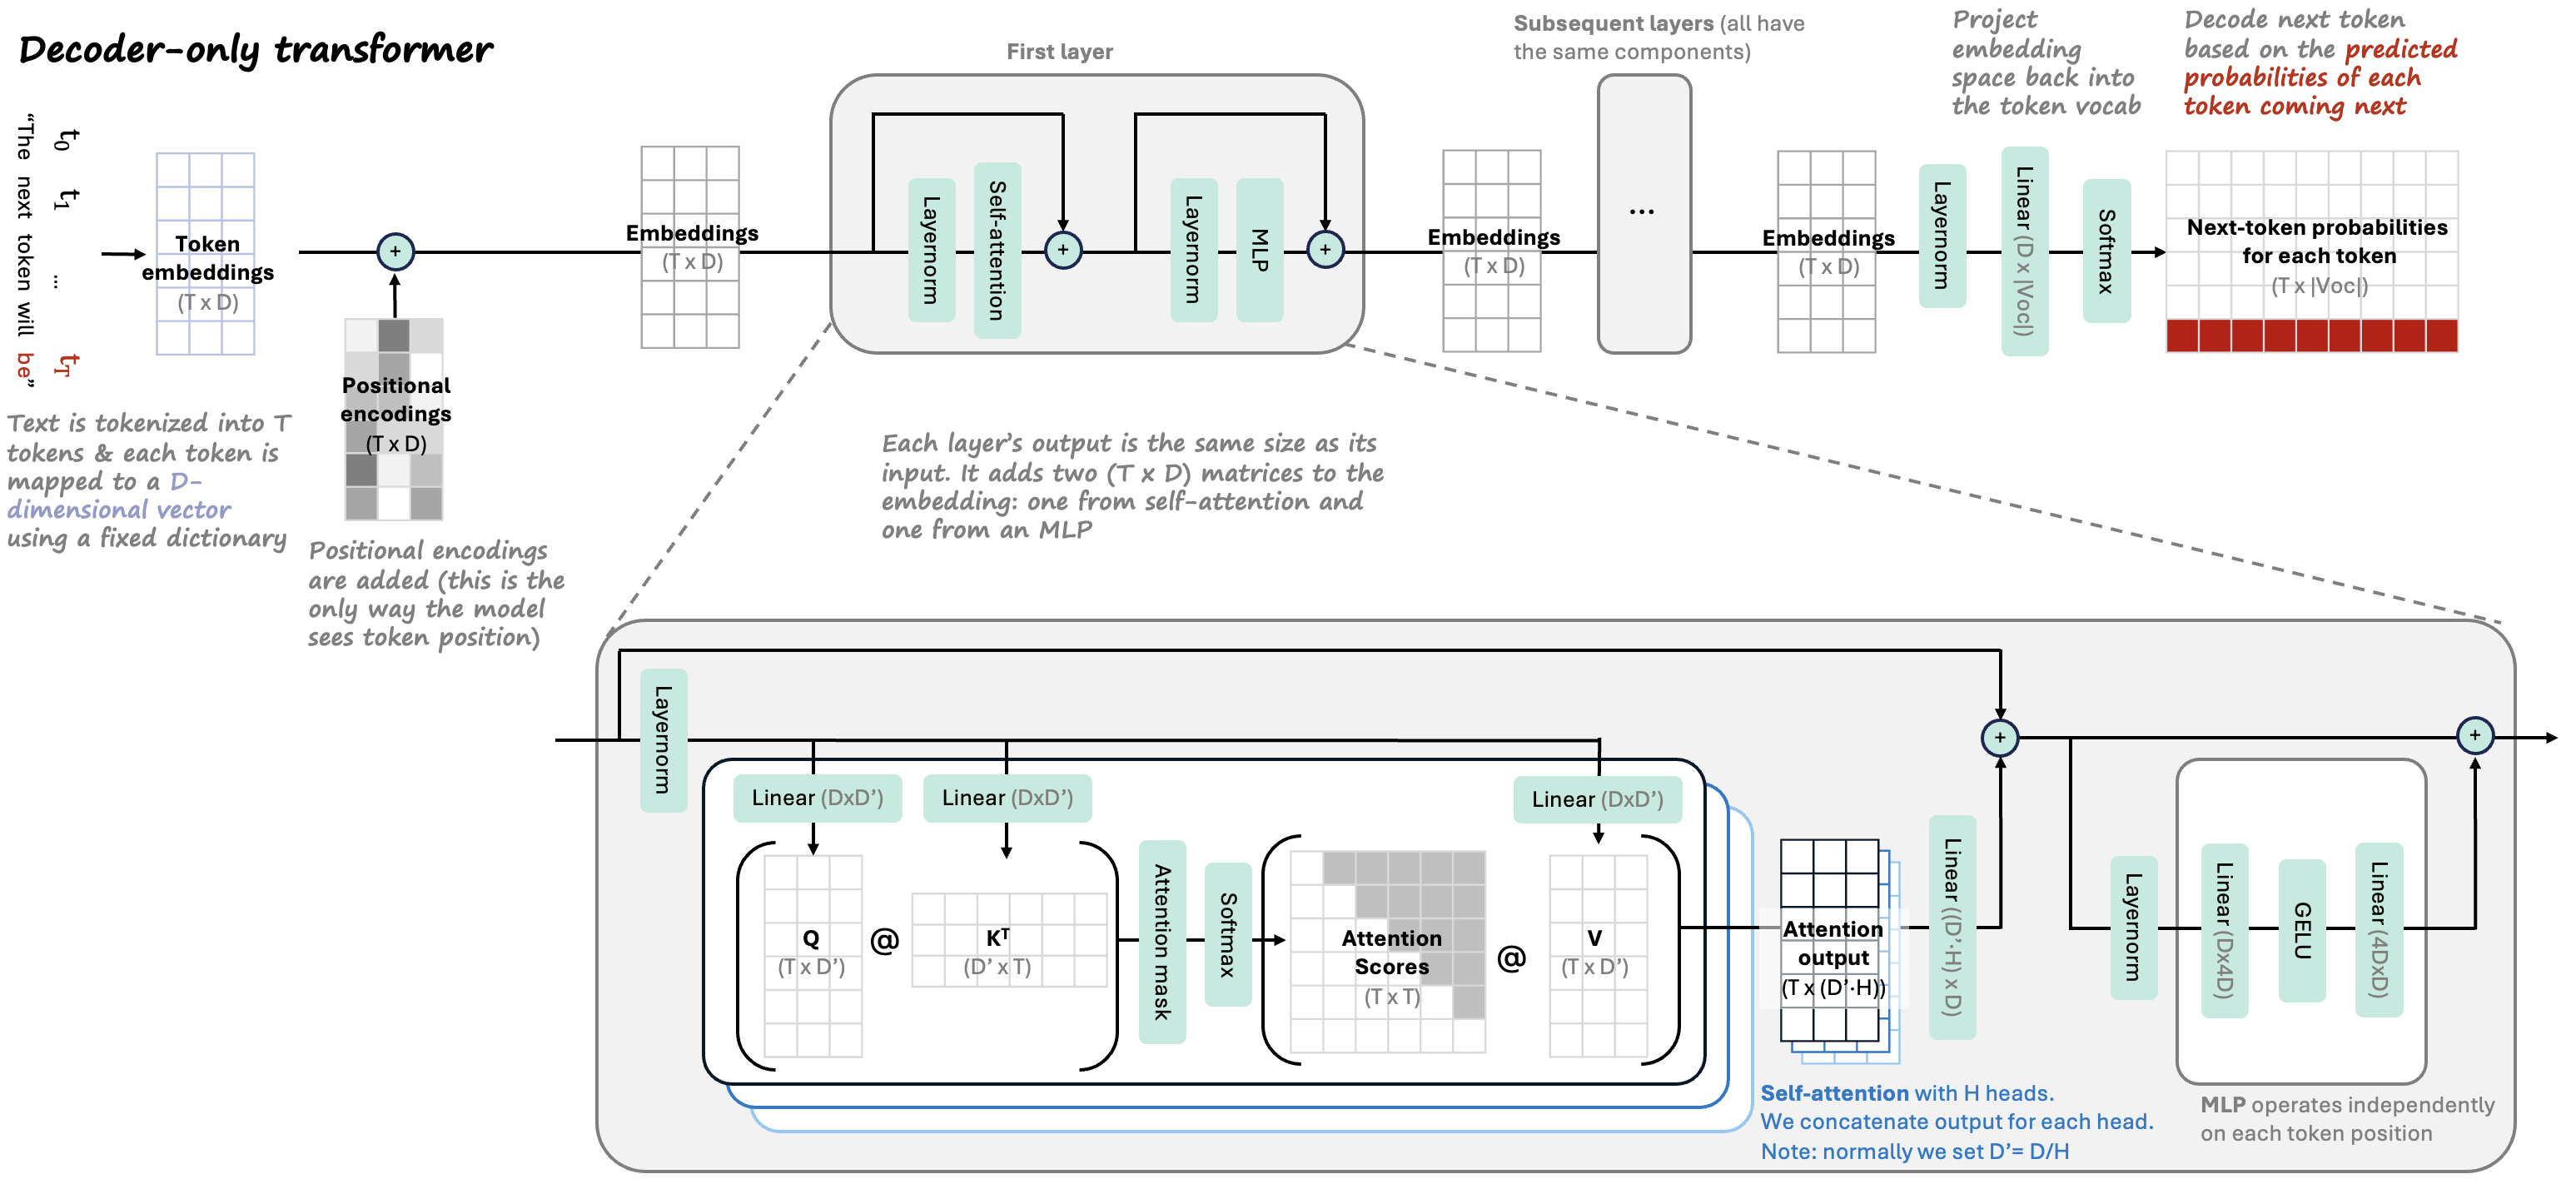
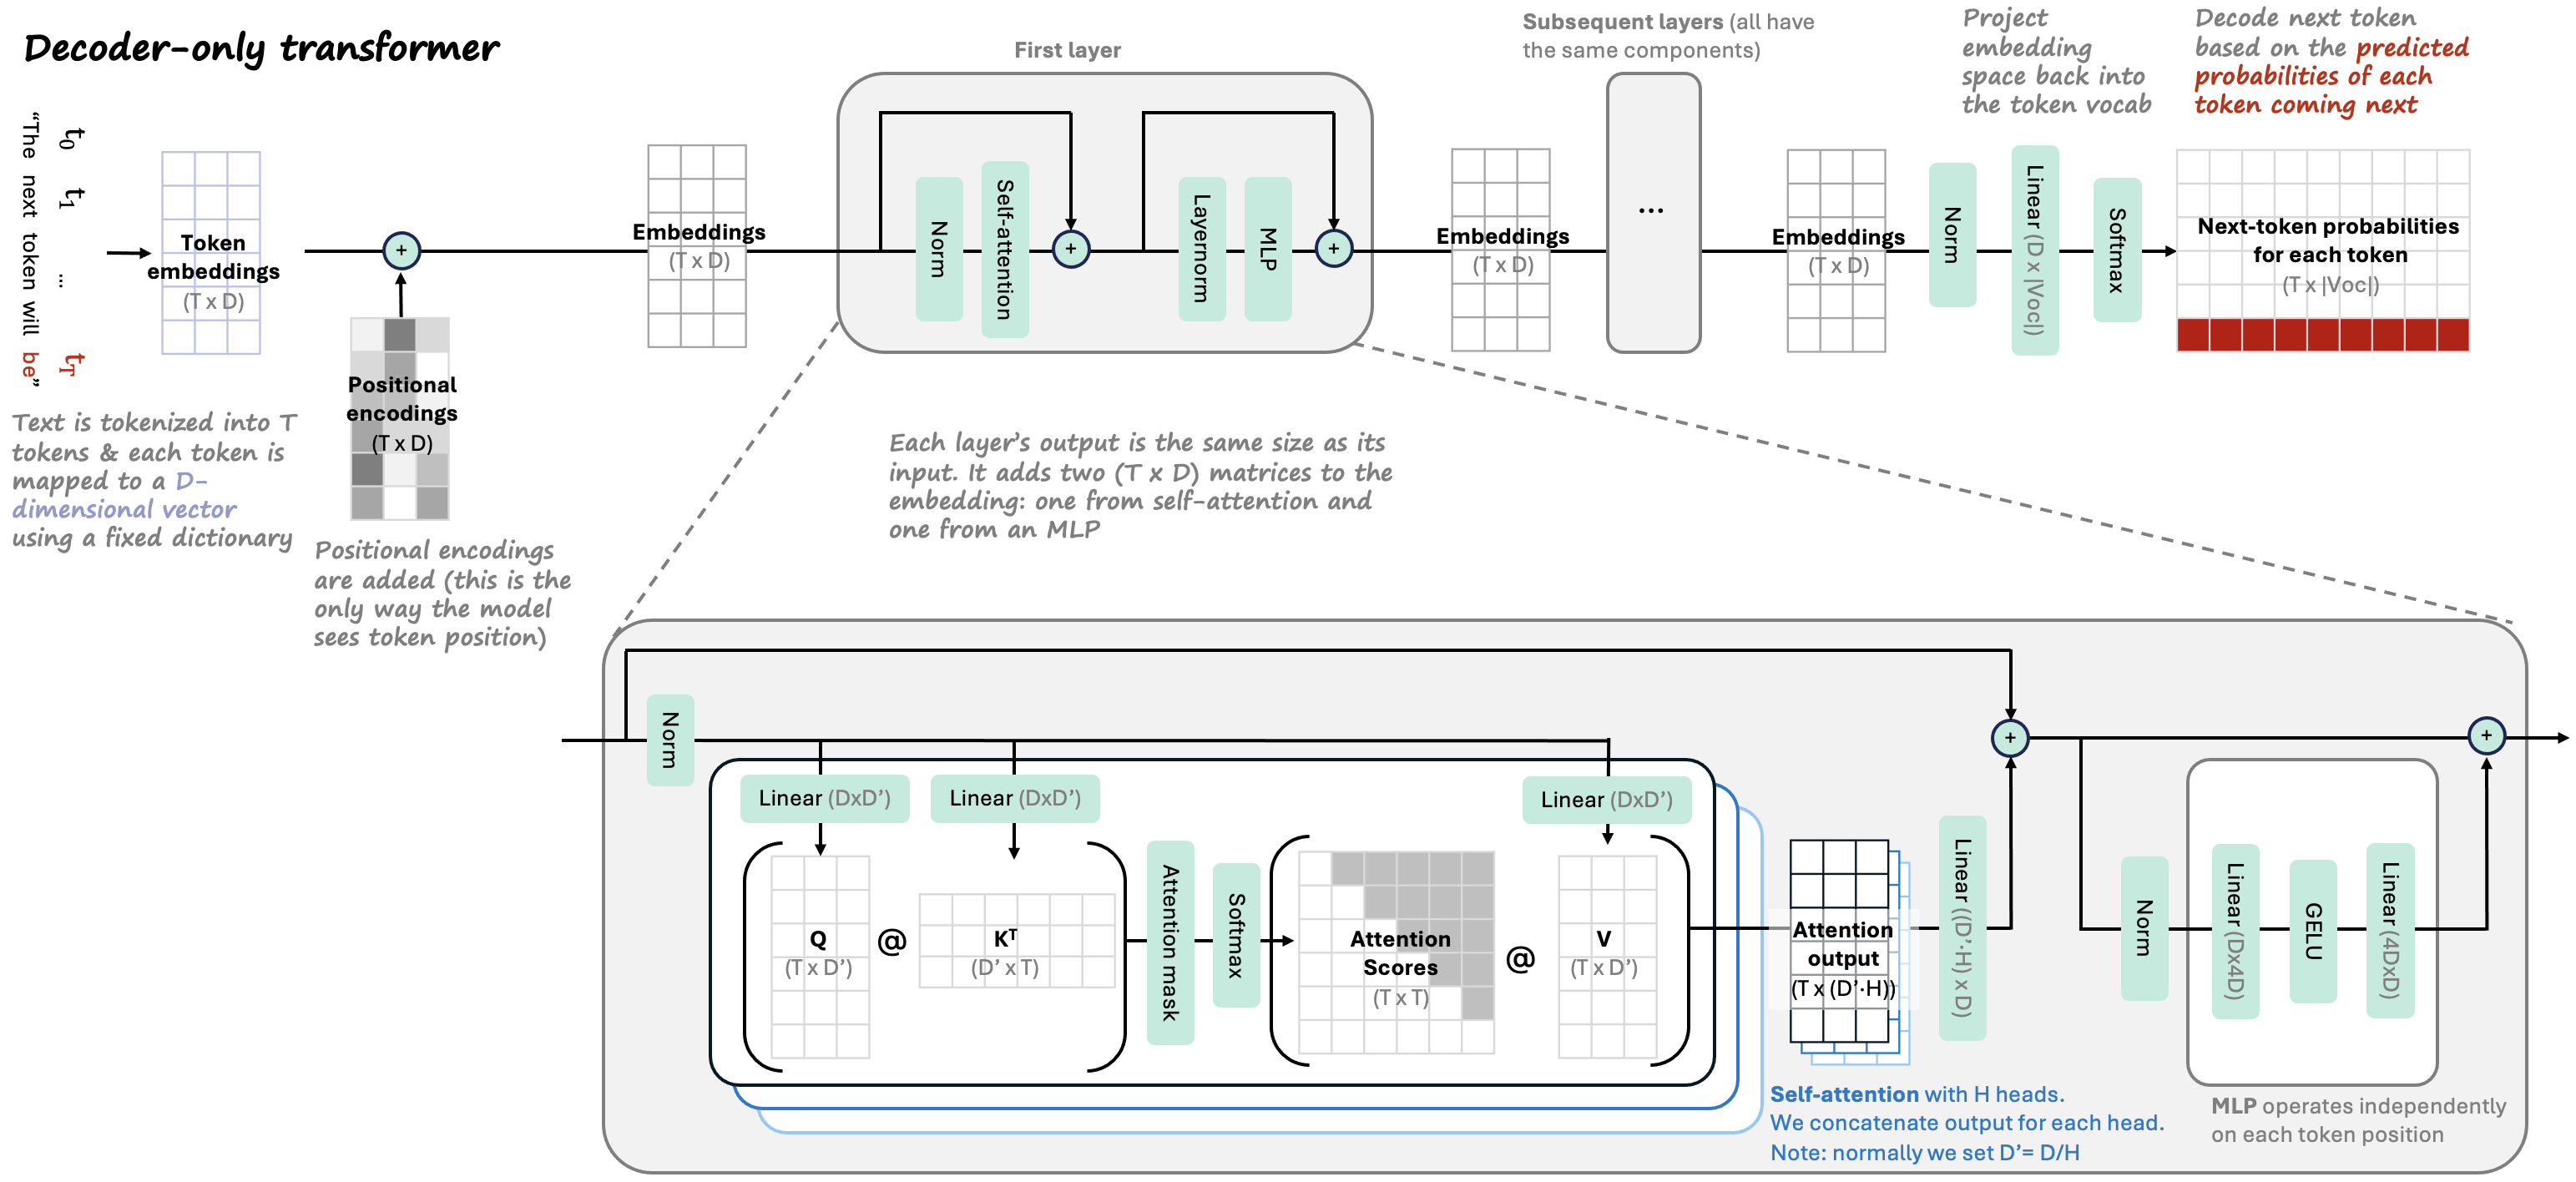
notes updates

diff --git a/_notes/research_ovws/ovw_llms.md b/_notes/research_ovws/ovw_llms.md
@@ -599,9 +599,9 @@ Nice survey here: A Survey on dLLMs ([li, chen, guo & shen, 2025](https://arxiv.
   - Parallel-R1: Towards Parallel Thinking via RL ([zheng...yu, 2025](https://arxiv.org/abs/2509.07980))
 - aggregating information across examples
   - RLAD: Training LLMs to Discover Abstractions for Solving Reasoning Problems ([qu...kumar, 2025](https://arxiv.org/abs/2510.02263)) - use NL abstractions to guide more general reasoning paths
-    - SkillRL: Evolving Agents via Recursive Skill-Augmented RL ([xia...yao, 2026](https://arxiv.org/abs/2602.08234))
     - Hybrid-Gym: Training Coding Agents to Generalize Across Tasks ([xie...fried, 2026](https://arxiv.org/abs/2602.16819))
       - Inducing Programmatic Skills for Agentic Tasks ([wang, gandhi, neubig & fried, 2025](https://arxiv.org/abs/2504.06821))
+    - Memento-Skills: Let Agents Design Agents ([zhou...wang, 2026](https://arxiv.org/abs/2603.18743))
   - Metacognitive Reuse: Turning Recurring LLM Reasoning Into Concise Behaviors ([didolkar, ballas, arora & goyal, 2025](https://arxiv.org/abs/2509.13237))
   - WALT: Web Agents that Learn Tools ([prabhu...xu, 2025](https://arxiv.org/abs/2510.01524))
     - ReUseIt: Synthesizing Reusable AI Agent Workflows for Web Automation ([liu, sra, inala & wang, 2025](https://arxiv.org/abs/2510.14308))
@@ -616,12 +616,14 @@ Nice survey here: A Survey on dLLMs ([li, chen, guo & shen, 2025](https://arxiv.
     - Memento-Skills: Let Agents Design Agents ([zhou...wang, 2026](https://arxiv.org/abs/2603.18743))
     - autoresearch-skill ([tweet](https://x.com/itsolelehmann/status/2033919415771713715?s=20); [github](https://github.com/olelehmann100kMRR/autoresearch-skill))
     - SKILLFOUNDRY: Building Self-Evolving Agent Skill Libraries from Heterogeneous Scientific Resources ([shen...ma, 2026](https://arxiv.org/abs/2604.03964))
+    - LLMs Improving LLMs: Agentic Discovery for Test-Time Scaling ([zheng...huang, 2026](https://arxiv.org/abs/2605.08083))
   - Tool-R0: Self-Evolving LLM Agents for Tool-Learning from Zero Data ([acikgoz...tur, 2026](https://arxiv.org/abs/2602.21320))
-    - SKILL0: In-Context Agentic RL for Skill Internalization ([lu...shen, 2026](https://arxiv.org/abs/2604.02268))
+    - AEL: Agent Evolving Learning for Open-Ended Environments ([xu...metaxas, 2026](https://arxiv.org/abs/2604.21725))
     - SkillClaw: Let Skills Evolve Collectively with Agentic Evolver ([ma...chu, 2026](https://arxiv.org/abs/2604.08377))
+    - From Skill Text to Skill Structure: The Scheduling-Structural-Logical Representation for Agent Skills ([liang, wang, liang & liu, 2026](https://arxiv.org/abs/2604.24026))
+    - Agent-World: Scaling Real-World Environment Synthesis for Evolving General Agent Intelligence ([dong...dou, 2026](https://arxiv.org/abs/2604.18292))
 - Meta-Harness: End-to-End Optimization of Model Harnesses ([lee...finn, 2026](https://arxiv.org/abs/2603.28052))
   - The Last Harness You'll Ever Build ([seong, yin, zhang & shi, 2026](https://arxiv.org/abs/2604.21003))
-
 - training to enable scaling test-time reasoning
   - ExGRPO: Learning to Reason from Experience ([zhan...cheng, 2025](https://arxiv.org/abs/2510.02245))
   - Meta-RL Induces Exploration in Language Agents ([jiang...brbic, 2025](https://arxiv.org/abs/2512.16848))
@@ -1052,16 +1054,27 @@ Editing is generally very similar to just adaptation/finetuning. One distinction
   2. weak unsupervised pre-training, e.g. weakly related text pairs, such as QA pairs from forums like StackExchange and Quora
   3. high-quality contrastive finetuning on curated paired data, e.g. QA from web searches
 - datasets
-  - **[MTEB leaderboard](https://huggingface.co/spaces/mteb/leaderboard)** & newer [RTEB](https://huggingface.co/blog/rteb)
+  - **[MTEB leaderboard](https://huggingface.co/spaces/mteb/leaderboard)** - most common (but potentially overfitted) benchmark
+    - PTEB paper ([frank & afli, 2025](https://arxiv.org/abs/2510.06730)) finds that paraphrasing MTEB test sets substantially lowers scores (suggesting overfitting)
+    - SAGE: A Realistic Benchmark for Semantic Understanding ([goel, lee & ramchandran, 2025](https://arxiv.org/abs/2509.21310)) - evaluates retreival robustness under adversarial and noisy conditions
+    - AIR-Bench: Automated Heterogeneous Information Retrieval Benchmark ([chen...liu, 2024](https://arxiv.org/abs/2412.13102)) - refreshable llm-generated eval data
+    - Older: [BEIR benchmark](https://arxiv.org/abs/2104.08663)
+  - agentic search
+    - BrowseComp-Plus ([chen...lin, 2025](https://arxiv.org/abs/2508.06600)) - evaluates deep research when searching a fixed corpus
+      - extends BrowseComp ([wei...glaese, 2025](https://arxiv.org/abs/2504.12516)) - uses web search to evaluate QA
+    - InfoDeepSeek: Benchmarking Agentic Information Seeking for Retrieval-Augmented Generation ([xi...yu, 2025](https://arxiv.org/abs/2505.15872))
+  - newer retrieval benchmarks
+    - [RTEB](https://huggingface.co/blog/rteb) - retrieval only benchmark of 48 datasets, with 28 private datasets and 26 code-retrieval datasets
+    - OBLIQ-Bench: Exposing Overlooked Bottlenecks in Modern Retrievers with Latent and Implicit Queries ([tchuindjo, shah & khattab, 2026](https://arxiv.org/abs/2605.06235))
+    - EnterpriseRAG-Bench: A RAG Benchmark for Company Internal Knowledge ([sun...butler, 2026](https://arxiv.org/abs/2605.05253))
   - Instructor eval: Billboard, Prompt retrieval
-  - [FollowIR](https://arxiv.org/abs/2403.15246) (weller...soldaini, 2024)
+  - FollowIR ([weller...soldaini, 2024](https://arxiv.org/abs/2403.15246))
   - [TREC-RAG](https://trec-rag.github.io/)
   - Long contexts: [LoCo Benchmark](https://hazyresearch.stanford.edu/blog/2024-01-11-m2-bert-retrieval), [Jina Long Context Benchmark](https://arxiv.org/abs/2310.19923.pdf)
-  - Older: BEIR benchmark](https://arxiv.org/abs/2104.08663)
   - Training
     - Nomic 235M curated text pairs (mostly filtered from [here](https://huggingface.co/datasets/sentence-transformers/embedding-training-data))
       - Followed by supervised contrastive fine-tuning on datasets like MSMarco, NQ, NLI, HotpotQA, Fever, WikiAnswers, etc.
-
+  
     - MEDI (from Instructor paper): combines 300 datasets from Super- NaturalInstructions with 30 datasets from existing collections designed for embedding training
 - customization
   - e.g. add prompt or prefixes like *search query*, *search document*, *classification*, *clustering* before embedding so model knows how to match things
@@ -1122,10 +1135,23 @@ Editing is generally very similar to just adaptation/finetuning. One distinction
 - RAPTOR: Recursive Abstractive Processing for Tree-Organized Retrieval ([sarthi...manning](https://arxiv.org/abs/2401.18059)) - retrieve many docs and cluster/summarize before using
 - Seven Failure Points When Engineering a Retrieval Augmented Generation System ([barnet...abdelrazek, 2024](https://arxiv.org/abs/2401.05856))
 - Retrieve to Explain: Evidence-driven Predictions with LMs ([patel...corneil, 2024](https://arxiv.org/abs/2402.04068.pdf))
-- simple baseline from "A Simple but Tough-to-Beat Baseline for Sentence Embeddings ([arora, liang & ma, 2017](https://openreview.net/forum?id=SyK00v5xx))"
+- simple baseline from A Simple but Tough-to-Beat Baseline for Sentence Embeddings ([arora, liang & ma, 2017](https://openreview.net/forum?id=SyK00v5xx))
   - average word embeddings in a sentence, downweighting words by their frequency
   - to remove the "common background direction", compute the top pca component from many sentence embeddings then remove that direction
 
+## agentic search
+
+Agentic search - agent actively plans, executes, and iterates on searches to answer a query, rather than just running a single keyword lookup and handing back results
+
+- Search-R1: Training LLMs to Reason and Leverage Search Engines with RL ([jin...han, 2025](https://arxiv.org/abs/2503.09516))
+- Beyond Semantic Similarity: Rethinking Retrieval for Agentic Search via Direct Corpus Interaction ([li...zhang, 2026](https://arxiv.org/abs/2605.05242)) - agent searches the raw corpus directly using **`grep`, `find`, `bash`, shell pipelines** rather than embedding models
+- Chroma Context-1: Training a Self-Editing Search Agent ([bashir, hong, jiang, & shi, 2026](https://www.trychroma.com/research/context-1))
+- MemReranker: Reasoning-Aware Reranking for Agent Memory Retrieval ([li...li, 2026](https://arxiv.org/abs/2605.06132))
+- Superintelligent Retrieval Agent: The Next Frontier of Information Retrieval ([yang, ma, chen & shrivastava, 2026](https://arxiv.org/abs/2605.06647))
+  - SIRA does not merely ask what terms are relevant to the query; it asks which terms are likely to separate the desired evidence from corpus-level confusers
+  - doc side: LLM enriches each document offline with missing search vocabulary
+  - query side: predicts evidence vocabulary omitted by the query &  document-frequency statistics as a tool call to filter proposed terms that are absent, overly common, or unlikely to create retrieval margin
+  - final retrieval step is a single weighted BM25 call combining the original query with the validated expansion
 
 ## explainable embeddings
 
@@ -1309,6 +1335,7 @@ Editing is generally very similar to just adaptation/finetuning. One distinction
     - they use synthetic generated data to revise the explanation
     - they also do some recovery tests on "neuron puzzles"
     - The Importance of Prompt Tuning for Automated Neuron Explanations ([lee...weng, 2023](https://arxiv.org/abs/2310.06200)) - improve the prompt used to generate the explanations
+  - NLAs: Natural Language Autoencoders Produce Unsupervised Explanations of LLM Activations ([anthropic, 2026](https://transformer-circuits.pub/2026/nla/index.html)) - train network that converts activations to NL description then reconstructs the activation from the description (so natural language serves as a bottleneck)
   - CoSy: Evaluating Textual Explanations of Neurons ([kopf...bykov, 2024](https://arxiv.org/abs/2405.20331))
   - Evaluating Concept-based Explanations of LMs: A Study on Faithfulness and Readability ([li...wang, 2024](https://arxiv.org/abs/2404.18533))
   - A Multimodal Automated Interpretability Agent ([shaham...hernandez, andreas, torralba, 2024](https://arxiv.org/abs/2404.14394))
@@ -1534,6 +1561,7 @@ Editing is generally very similar to just adaptation/finetuning. One distinction
   - Do Claude Code and Codex P-Hack? Sycophancy and Statistical Analysis in LLMs ([asher...hall, 2026](https://andrewbenjaminhall.com/asher_et_al_LLM_sycophancy.pdf))
   - Many AI Analysts, One Dataset: Navigating the Agentic Data Science Multiverse ([bertran, fogliato & wu, 2026](https://arxiv.org/abs/2602.18710)) - recomend showing LLM judgement calls along with estimand distribution
     - Beyond Quantification: Navigating Uncertainty in Professional AI Systems ([delacroix...lawrence, 2025](https://academic.oup.com/rssdat/article/1/1/udaf002/8317136?guestAccessKey=))
+  - Are LLMs Reliable AI Scientists? Assessing Reverse-Engineering of Black-Box Systems ([geng, chen, arumugam & griffiths, 2025](https://arxiv.org/abs/2505.17968))
   - Stop Automating Peer Review Without Rigorous Evaluation ([baumann...hovy, 2026](https://joe-baumann.com/aipeerreview.pdf))
 
 teaching, HITL, user simulators

diff --git a/_notes/ai/rl_decisions.md b/_notes/ai/rl_decisions.md
@@ -414,3 +414,11 @@ Inverse RL - learning reward functions from example
       - ex. SDFT (Self-Distillation Enables Continual Learning ([shenfeld, damani, hübotter & agrawal, 2026](https://arxiv.org/abs/2601.19897))) - condition on expert demonstration (possibly for a different task)
       - ex. OPSD = On-policy self-distillation ([zhao...grover, 2026](https://arxiv.org/abs/2601.18734)) - condition on groundtruth answer
         - note: OPSD can have very large gradients on individual tokens, where models differ, sometimes leading the model astray -- to fix this, often cap the update for an individual token ("point-wise KL clipping")
+- without updating parameters
+  - SDPO: RL via Self-Distillation ([hübotter...krause, 2026](https://arxiv.org/abs/2601.20802))
+  - ERL: Experiential RL ([shi...zhao, 2026](https://arxiv.org/abs/2602.13949))
+  - Training-Free GRPO ([cai...sun, 2025](https://arxiv.org/abs/2510.08191))
+  - SkillRL: Evolving Agents via Recursive Skill-Augmented RL ([xia...yao, 2026](https://arxiv.org/abs/2602.08234))
+  - Skill0: In-Context Agentic RL for Skill Internalization ([lu...shen, 2026](https://arxiv.org/abs/2604.02268))
+  - Skill1: Unified Evolution of Skill-Augmented Agents via RL ([shi...zhang, 2026](https://arxiv.org/abs/2605.06130))
+  - MemRL: Self-Evolving Agents via Runtime RL on Episodic Memory ([zhang...wen, 2026](https://arxiv.org/abs/2601.03192))